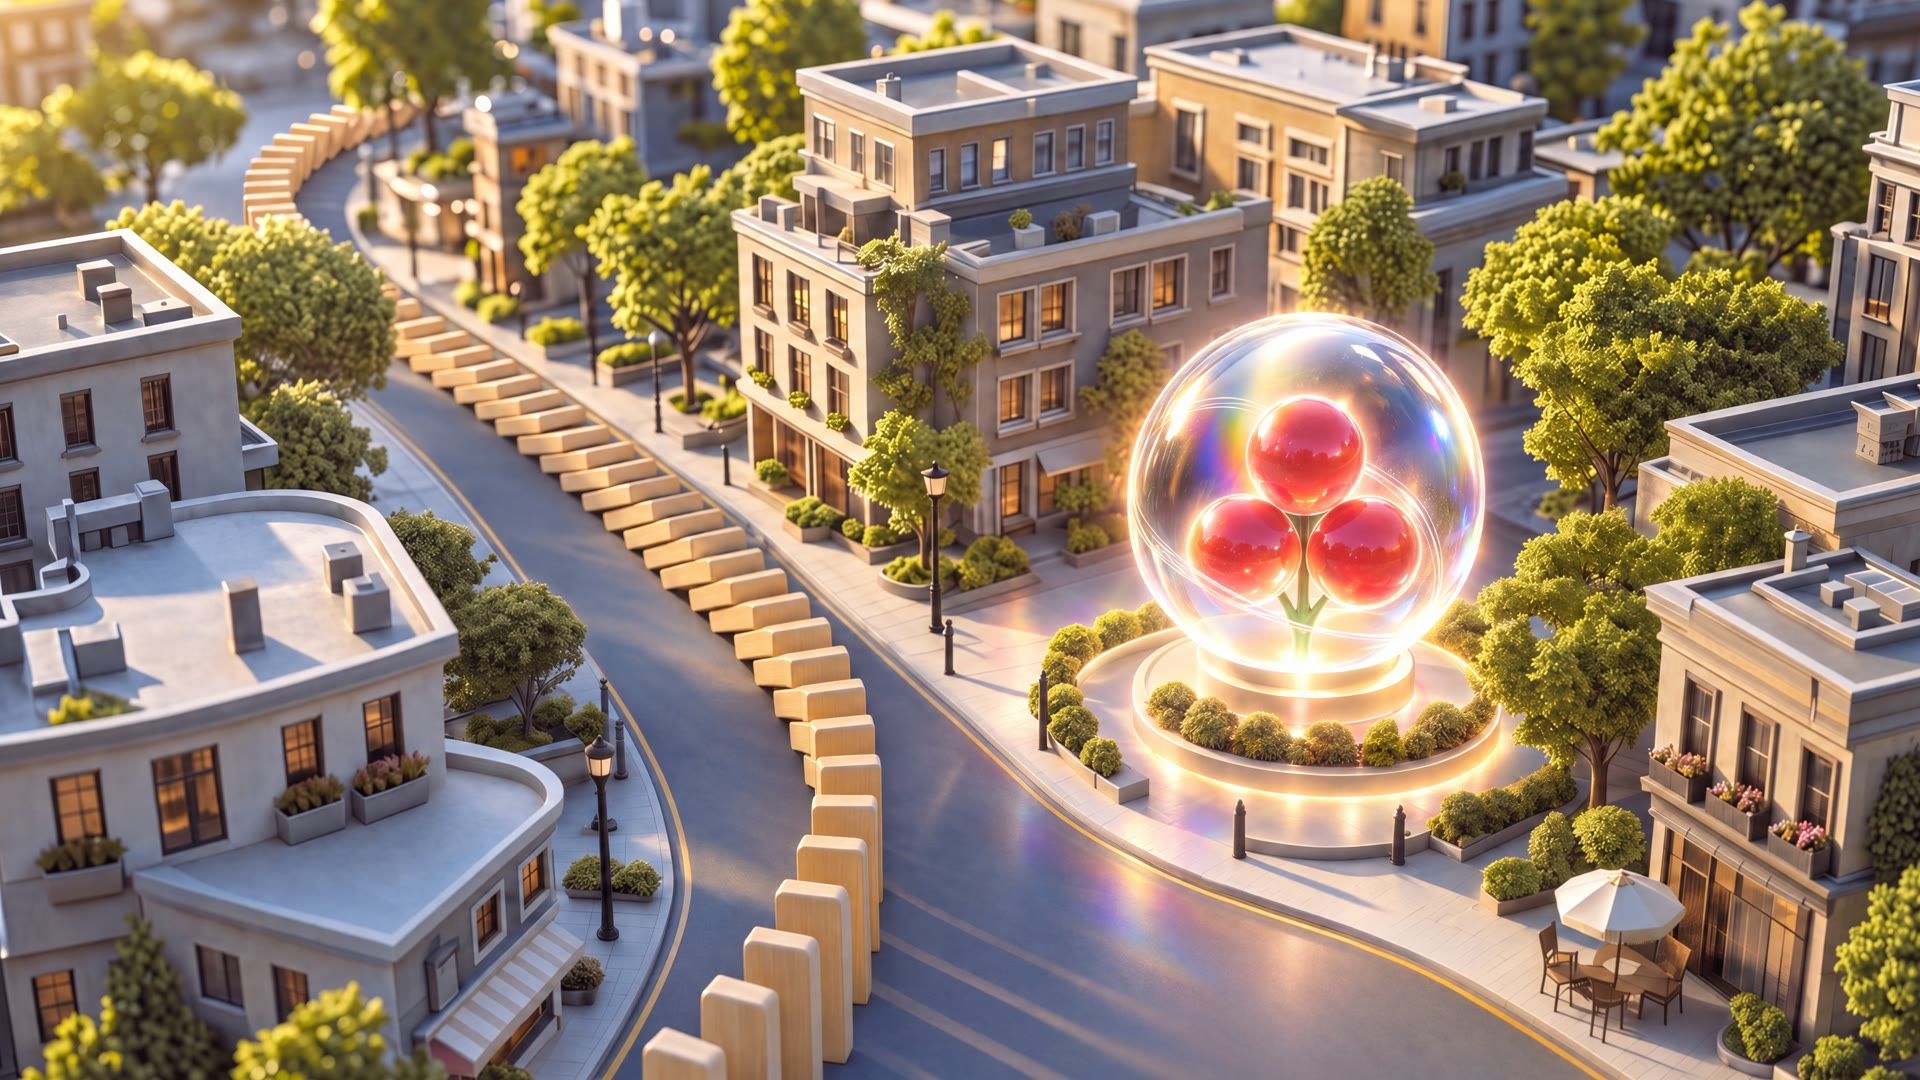
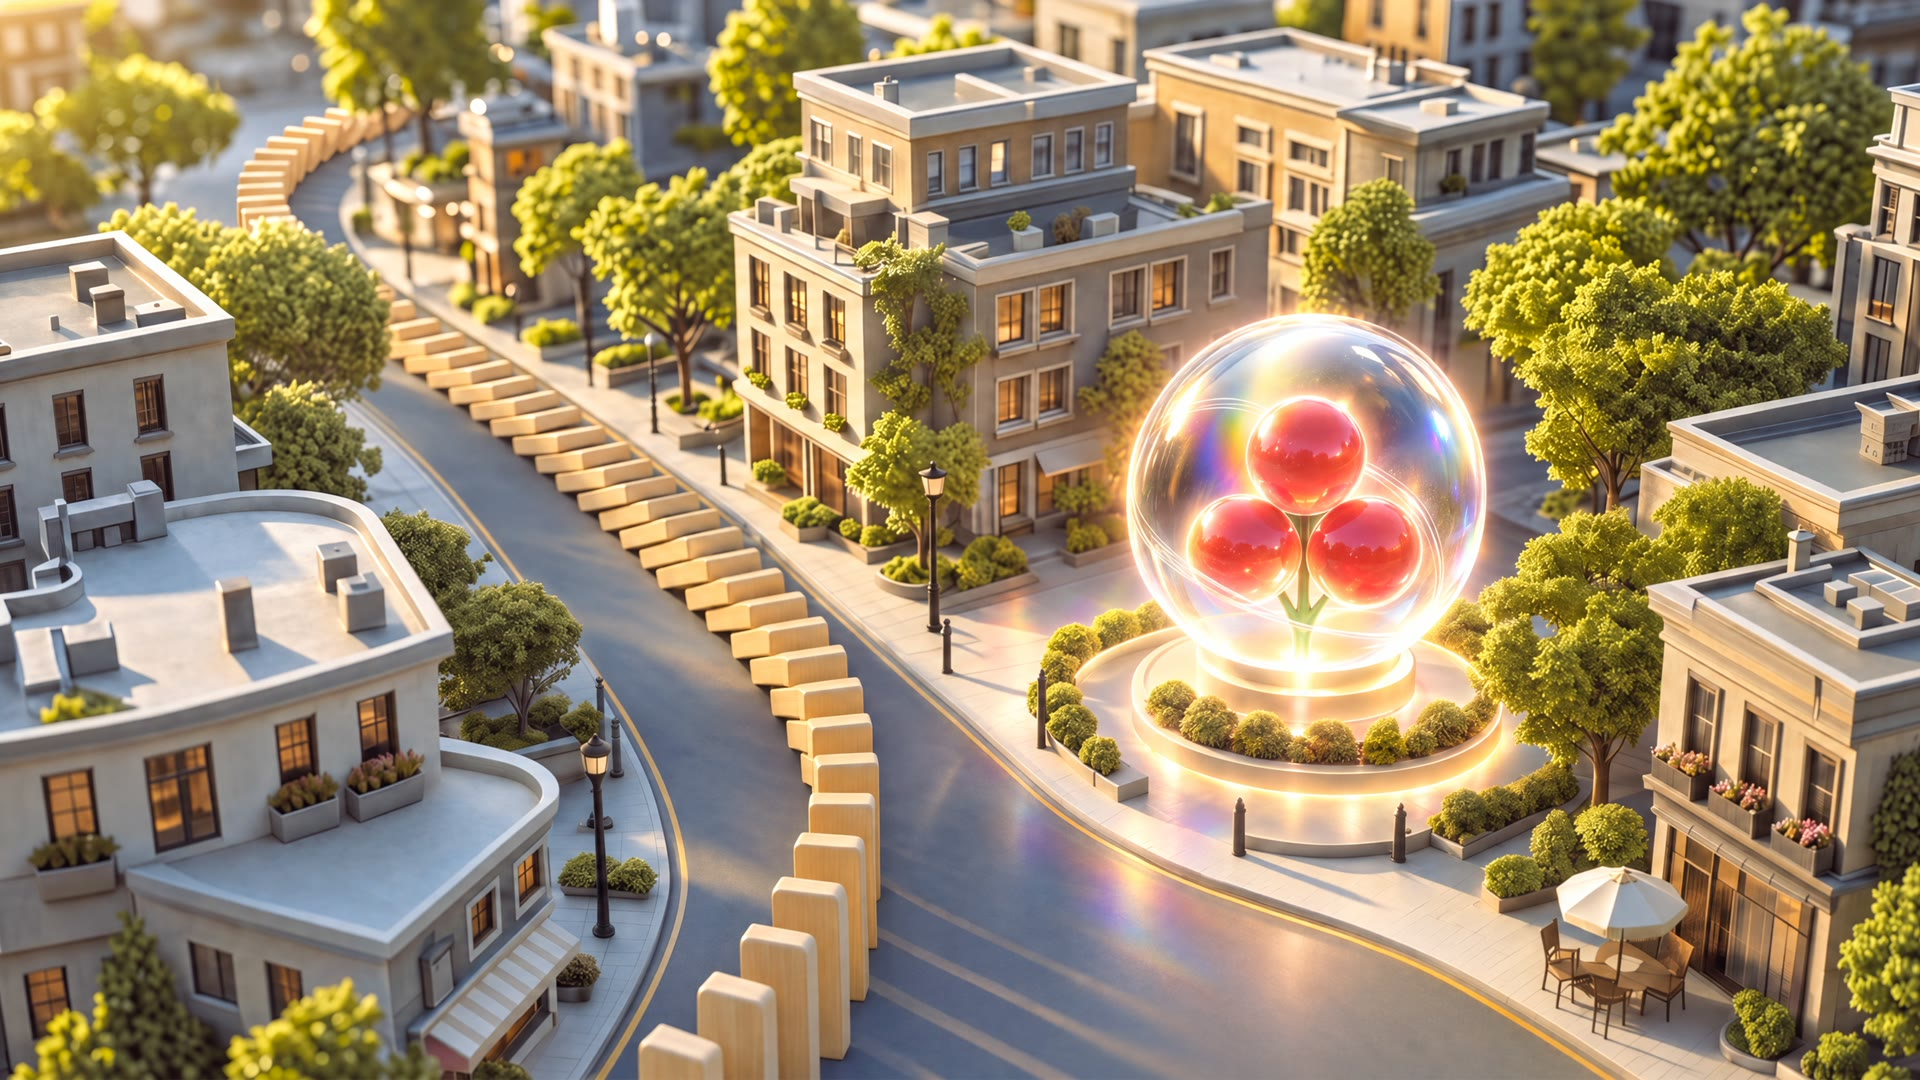
03p 컷 열다섯 장을 새 판으로 교체한다
03 iv3_8 · 05 iv5_23_1/2 · 06 iv6_15 · 07 iv8_24_1/2 · 08 iv7_11_1/2 ·
09 iv9_95 · 10 iv10_2 · 11 iv11_5 · 12 iv12_21 · 13 iv13_4 · 14 iv14_3 ·
15 iv16_2. 07 · 08 은 맞바꿔 둔 그대로라 파일 이름은 그림 계열을 따른다 —
07 이 cut08, 08 이 cut07 이다.

두 단계 컷 셋(05 · 07 · 08)에서 **전 · 후의 구도가 완전히 같아졌다.** 전에는
두 판을 따로 뽑아 카메라가 조금씩 어긋났고, 그러면 넘길 때 화면이 한 번 흔들려
「무엇이 달라졌나」가 구체가 아니라 프레임으로 갔다. 지금은 프레임이 고정이라
바뀌는 것이 구체와 도미노뿐이다. 밝은 면적은 4.0 · 1.8 · 3.4 배로 는다.

바뀐 열다섯 장이 모두 밝아졌고(+2 ~ +10), 스무 단계 전체의 밝기 편차가
63.2 에서 60.6 으로 좁아졌다. 자막은 그대로 맞는다 — 13 은 여전히 사람이
없고, 15 의 지평선에는 포탈이 작게 서 있다.

12 의 「원본이 1672×941 이라 늘려 썼다」 주석은 걷었다. iv12_21 은 5504×3072 다.

diff --git a/assets/led/README.md b/assets/led/README.md
@@ -70,19 +70,19 @@
 |---|---|---|---|
 | 01 | `cut01.jpg` | `iv1_6` | 화면만 담긴 판. 앞의 실물 도미노는 UI 로 그린다.<br>**로고가 그림에 구워져 있다** — 아래 「재사용」 참고 |
 | 02 | `cut02.jpg` | `iv2_1` | 포탈을 지나 도시로 — CUT 01 의 줄이 그대로 이어진다 |
-| 03 | `cut03.jpg` | `iv3_7` | 길을 따라 줄이 휘어 가고, 앞쪽은 이미 쓰러졌다 |
+| 03 | `cut03.jpg` | `iv3_8` | 길을 따라 줄이 휘어 가고, 앞쪽은 이미 쓰러졌다 |
 | 04 | `cut04.jpg` | `iv4_15` | 줄이 모퉁이 건물을 감아 돌며 쓰러진다 |
-| 05 | `cut05.jpg`<br>`cut05b.jpg` | `iv5_18`<br>`iv5_22` | 유리돔 열매 조형을 지나며 쓰러진다.<br>**두 단계** — 지나기 전 / 지나간 뒤 구체가 켜진다 |
-| 06 | `cut06.jpg` | `iv6_14` | 전광판 아래 골목을 도미노가 쓰러지며 지난다 |
-| 07 | `cut08.jpg`<br>`cut08b.jpg` | `iv8_21`<br>`iv8_23` | 유리돔 열매 조형을 눈높이로 — **랜드마크 컷**.<br>파면이 조형 바로 앞을 지나는 중. 구체가 가장 크게 보인다.<br>**두 단계** — 지나기 전 / 지나간 뒤 구체가 켜진다 |
-| 08 | `cut07.jpg`<br>`cut07b.jpg` | `iv7_8`<br>`iv7_10` | 개천 옆 마을길 — 앞쪽은 이미 쓰러졌고 안쪽이 아직 서 있다.<br>가장 멀리 나간 지점.<br>**두 단계** — 지나기 전 / 지나간 뒤 구체가 켜진다 |
-| 09 | `cut09.jpg` | `iv9_94` | **등대 발치 클로즈업.** 구체는 아치 안, 줄이 그리로 들어간다.<br>탑은 화면 위로 잘려 전체 실루엣이 안 보인다 — 11 을 위해 아낀 것 |
-| 10 | `cut10.jpg` | `iv10_1` | 샤프트 안 클로즈업 — 구체가 레일을 타고 오른다.<br>유리 너머로 도시가 흘러 내려간다 |
-| 11 | `cut11.jpg` | `iv11_4` | **등대가 통째로 드러나며 랜턴이 켜진다** — 전체 실루엣이 처음 나오는 컷.<br>발치 아치는 비었다. **발치 도미노가 아직 서 있다** |
-| 12 | `cut12.jpg` | `iv12_14` | 등대에서 빛줄기가 마을로 뻗어 나간다. 광장을 고각으로.<br>원본이 1672×941 이라 1920 으로 늘려 썼다 |
-| 13 | `cut13.jpg` | `iv15_18` | 빛이 도심 골목으로 퍼져 나간다. 고각 · 틸트시프트.<br>**사람은 없다** — 가게 창과 길목에 빛이 앉는 것으로 적는다 |
-| 14 | `cut14.jpg` | `iv14_2` | 골목을 지나 분수 광장까지 번진다. 로고 없음 |
-| 15 | `cut15.jpg` | `iv16_1` | **도시 끝 → 들판.** 14 와 16 사이가 한 번에 뛰던 것을 메운다.<br>왼쪽에 마지막 건물들, 오른쪽으로 열리는 들판, 멀리 포탈 |
+| 05 | `cut05.jpg`<br>`cut05b.jpg` | `iv5_23_1`<br>`iv5_23_2` | 유리돔 열매 조형을 지나며 쓰러진다.<br>**두 단계** — 지나기 전 / 지나간 뒤 구체가 켜진다 |
+| 06 | `cut06.jpg` | `iv6_15` | 전광판 아래 골목을 도미노가 쓰러지며 지난다 |
+| 07 | `cut08.jpg`<br>`cut08b.jpg` | `iv8_24_1`<br>`iv8_24_2` | 유리돔 열매 조형을 눈높이로 — **랜드마크 컷**.<br>파면이 조형 바로 앞을 지나는 중. 구체가 가장 크게 보인다.<br>**두 단계** — 지나기 전 / 지나간 뒤 구체가 켜진다 |
+| 08 | `cut07.jpg`<br>`cut07b.jpg` | `iv7_11_1`<br>`iv7_11_2` | 개천 옆 마을길 — 앞쪽은 이미 쓰러졌고 안쪽이 아직 서 있다.<br>가장 멀리 나간 지점.<br>**두 단계** — 지나기 전 / 지나간 뒤 구체가 켜진다 |
+| 09 | `cut09.jpg` | `iv9_95` | **등대 발치 클로즈업.** 구체는 아치 안, 줄이 그리로 들어간다.<br>탑은 화면 위로 잘려 전체 실루엣이 안 보인다 — 11 을 위해 아낀 것 |
+| 10 | `cut10.jpg` | `iv10_2` | 샤프트 안 클로즈업 — 구체가 레일을 타고 오른다.<br>유리 너머로 도시가 흘러 내려간다 |
+| 11 | `cut11.jpg` | `iv11_5` | **등대가 통째로 드러나며 랜턴이 켜진다** — 전체 실루엣이 처음 나오는 컷.<br>발치 아치는 비었다. **발치 도미노가 아직 서 있다** |
+| 12 | `cut12.jpg` | `iv12_21` | 등대에서 빛줄기가 마을로 뻗어 나간다. 광장을 고각으로 |
+| 13 | `cut13.jpg` | `iv13_4` | 빛이 도심 골목으로 퍼져 나간다. 고각 · 틸트시프트.<br>**사람은 없다** — 가게 창과 길목에 빛이 앉는 것으로 적는다 |
+| 14 | `cut14.jpg` | `iv14_3` | 골목을 지나 분수 광장까지 번진다. 로고 없음 |
+| 15 | `cut15.jpg` | `iv16_2` | **도시 끝 → 들판.** 14 와 16 사이가 한 번에 뛰던 것을 메운다.<br>왼쪽에 마지막 건물들, 오른쪽으로 열리는 들판, 멀리 포탈 |
 | 16 | `cut16.jpg` | `iv15_5` | **수미상관.** 01 · 02 의 들판과 포탈로 돌아오는데<br>포탈 안에 불 켜진 등대가 서 있다. **로고 없음** — 돌아왔다는 것만 |
 | 17 | `cut17.jpg` | `iv15_6` | 16 과 같은 그림에 **로고가 구워진 판.** 목업 안에 놓고<br>두 분 · 전달판을 세운다. 두 분은 **01 과 같은 자리**(883 · 1053, 바닥 890) |
 
@@ -103,9 +103,14 @@
 
 | 컷 | 밝기 | 밝은 면적 |
 |---|---|---|
-| 05 광장 | 124.1 → 132.5 | 0.96% → 3.31% (3.5배) |
-| 07 조형 | 135.7 → 146.9 | 4.62% → 8.44% (1.8배) |
-| 08 물가 | 112.5 → 119.4 | 0.19% → 0.84% (4.5배) |
+| 05 광장 | 125.3 → 139.9 | 1.12% → 4.51% (4.0배) |
+| 07 조형 | 139.1 → 150.6 | 4.98% → 8.89% (1.8배) |
+| 08 물가 | 115.1 → 125.7 | 0.28% → 0.94% (3.4배) |
+
+`iv5_23` · `iv8_24` · `iv7_11` 로 바꾸면서 **전 · 후의 구도가 완전히 같아졌다.**
+전에는 두 판을 따로 뽑아 카메라가 조금씩 어긋났고, 그러면 넘길 때 화면이 한 번
+흔들려 「무엇이 달라졌나」가 구체가 아니라 프레임으로 갔다. 지금은 프레임이
+고정이라 **바뀌는 것이 구체와 도미노뿐**이다.
 
 **파일 이름은 컷 번호가 아니라 그림을 따른다.** 07 · 08 을 맞바꿔 둔 탓에
 07 의 짝은 `cut08b.jpg`(iv8 계열), 08 의 짝은 `cut07b.jpg`(iv7 계열)이다.
